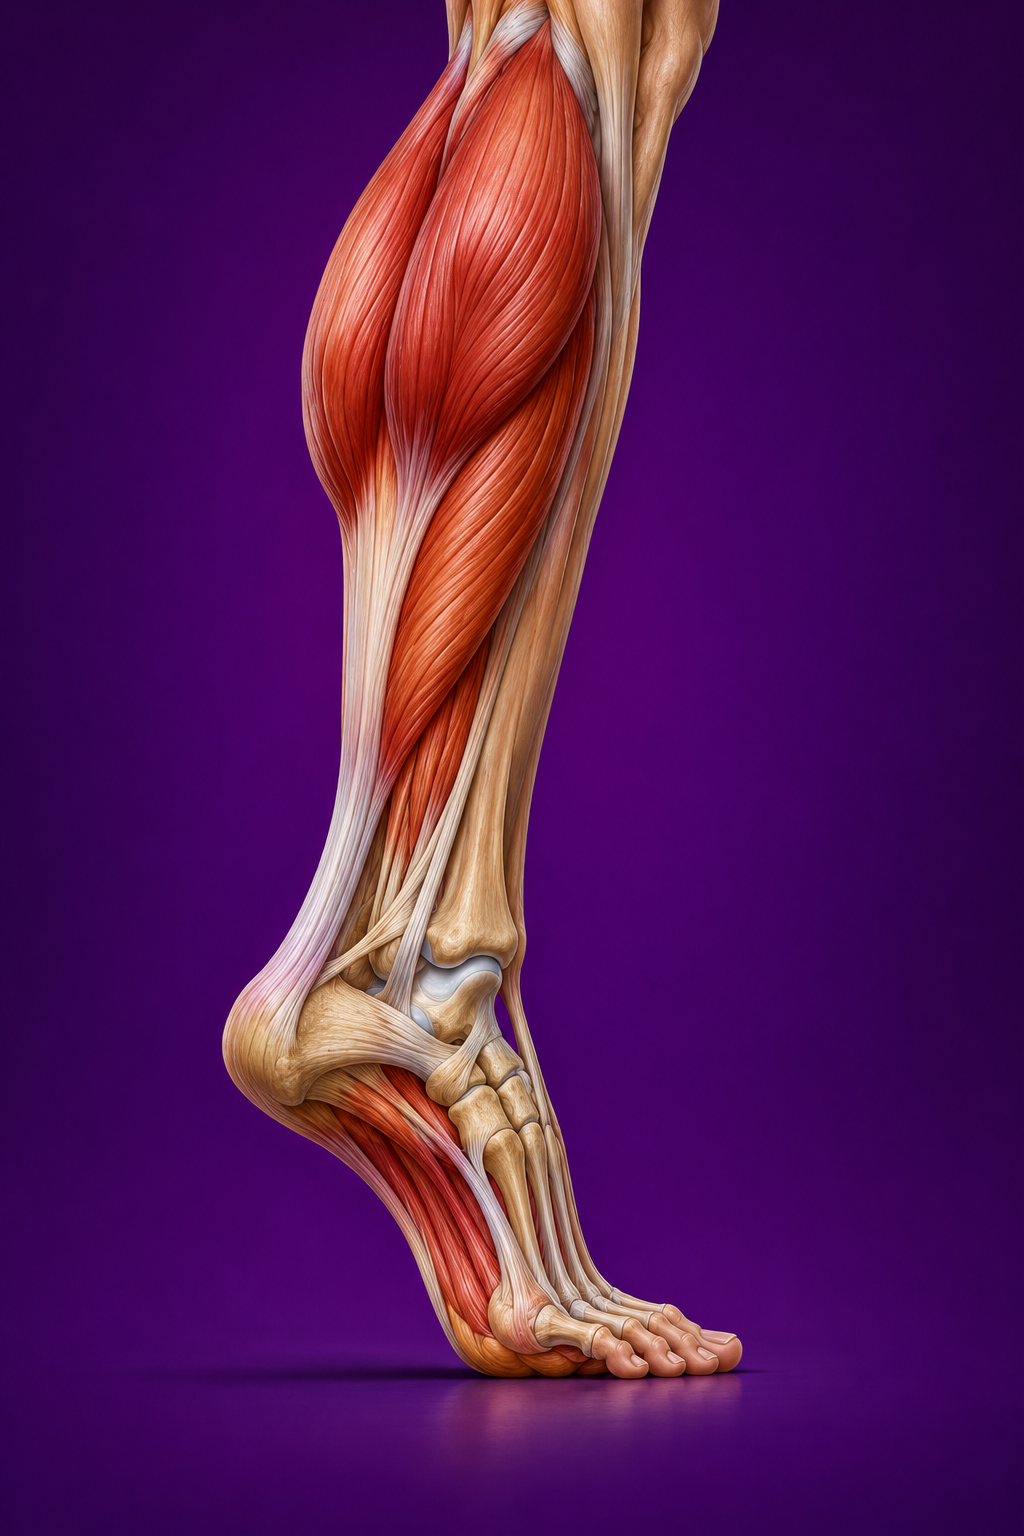
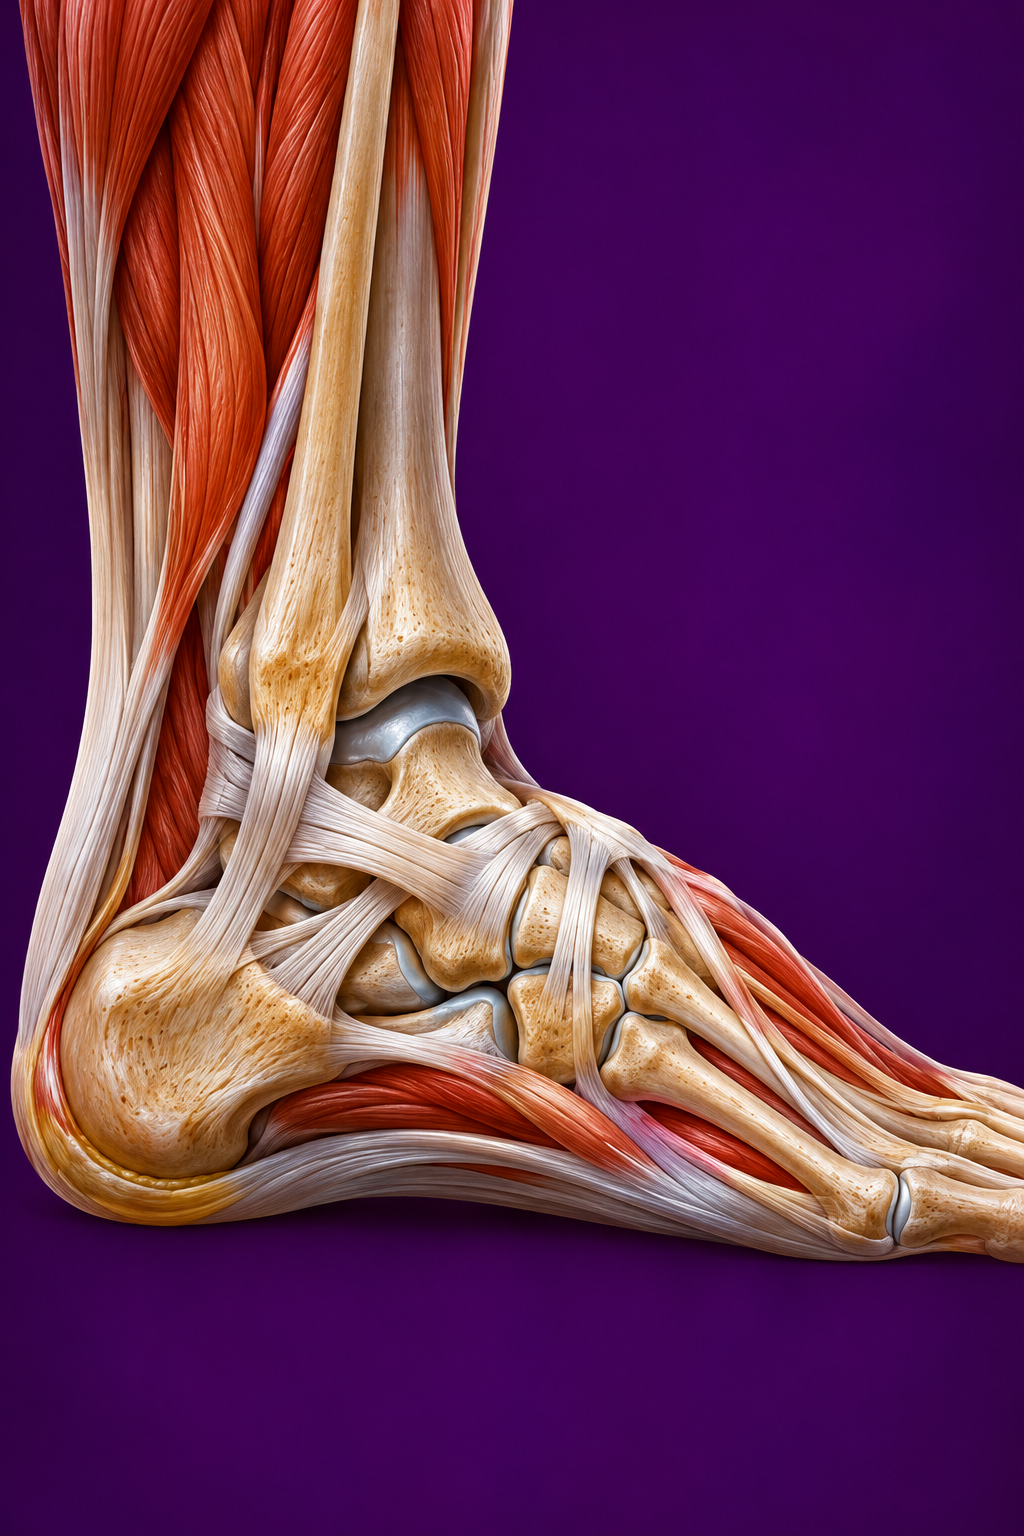
fix(atlas): refresh biomechanics illustrations and visible landmarks

diff --git a/app/atlas-premium/muscular-data.ts b/app/atlas-premium/muscular-data.ts
@@ -1256,104 +1256,104 @@ export const muscularLabs:Record<string,Lab>={
       {
         "file": "cotovelo.webp",
         "label": "Flexão do cotovelo",
-        "description": "Estudo anatômico: flexão do cotovelo.",
+        "description": "Vista lateral ilustrativa do cotovelo flexionado. O modelo não mostra a mão nem uma resistência externa; a análise de alavancas é conceitual.",
         "ready": true,
         "points": [
           {
-            "name": "Bíceps braquial",
-            "description": "Produz torque de flexão; em uma configuração típica de flexão com carga na mão, a força muscular atua entre eixo e resistência.",
-            "x": 31,
-            "y": 44
+            "name": "Região dos flexores do cotovelo",
+            "description": "O bíceps braquial e o braquial contribuem para o torque de flexão. Em uma alavanca de terceira classe típica, a força muscular atua entre o eixo e a resistência distal. Os limites musculares não estão individualizados com segurança.",
+            "x": 46,
+            "y": 20
           },
           {
             "name": "Eixo do cotovelo",
-            "description": "Referência aproximada em torno da qual ocorre flexão e extensão.",
-            "x": 26,
-            "y": 73
+            "description": "Referência aproximada no centro articular para estudar flexão e extensão.",
+            "x": 34,
+            "y": 58
           },
           {
-            "name": "Mão — região distal",
-            "description": "Ponto de aplicação hipotético de uma resistência externa. O torque externo depende da força e da distância perpendicular entre sua linha de ação e o eixo do cotovelo. Não há carga externa representada nesta imagem.",
-            "x": 86,
-            "y": 36
+            "name": "Antebraço — segmento de alavanca",
+            "description": "O antebraço transmite forças em relação ao eixo do cotovelo. A resistência aplicada na mão, que não aparece na imagem, produziria um torque dependente da sua linha de ação.",
+            "x": 81,
+            "y": 63
           }
         ]
       },
       {
         "file": "quadril.webp",
         "label": "Estabilidade pélvica",
-        "description": "Estudo anatômico: estabilidade pélvica.",
+        "description": "Vista anatômica ilustrativa do quadril, com a cabeça femoral e o acetábulo expostos. A estabilidade pélvica no apoio unipodal é estudada conceitualmente.",
         "ready": true,
         "points": [
           {
             "name": "Abdutores do quadril",
             "description": "Geram torque que se opõe à queda da pelve contralateral no apoio unipodal.",
-            "x": 29,
-            "y": 15
+            "x": 25,
+            "y": 30
           },
           {
             "name": "Centro articular do quadril",
             "description": "Referência de rotação para análise do torque no plano frontal.",
-            "x": 35,
-            "y": 23
+            "x": 57,
+            "y": 39
           },
           {
             "name": "Pelve",
             "description": "Segmento cuja orientação é controlada pela ação muscular e pelas forças externas.",
-            "x": 65,
-            "y": 13
+            "x": 48,
+            "y": 16
           }
         ]
       },
       {
         "file": "joelho.webp",
         "label": "Controle do joelho",
-        "description": "Vista anatômica do mecanismo extensor do joelho. A ilustração estática não permite identificar se a ação muscular é concêntrica ou excêntrica.",
+        "description": "Vista lateral ilustrativa do joelho, incluindo a patela e seu mecanismo extensor. Uma imagem estática não determina o tipo de contração muscular.",
         "ready": true,
         "points": [
           {
             "name": "Quadríceps",
             "description": "Pode atuar concentricamente na subida ou excentricamente no controle da descida, dependendo da tarefa.",
-            "x": 48,
-            "y": 18
+            "x": 68,
+            "y": 12
           },
           {
             "name": "Ligamento patelar",
             "description": "Transmite a força do mecanismo extensor da patela à tuberosidade tibial. Os isquiotibiais não estão individualizados nesta vista.",
-            "x": 58,
-            "y": 68
+            "x": 76,
+            "y": 54
           },
           {
             "name": "Patela",
             "description": "Aumenta o braço de momento do mecanismo extensor do joelho.",
-            "x": 60,
-            "y": 50
+            "x": 83,
+            "y": 38
           }
         ]
       },
       {
         "file": "tornozelo.webp",
         "label": "Propulsão plantar",
-        "description": "Estudo anatômico: propulsão plantar.",
+        "description": "Vista lateral ilustrativa do tornozelo e pé. A propulsão é explicada conceitualmente, pois o apoio do antepé e a musculatura proximal da panturrilha não aparecem integralmente.",
         "ready": true,
         "points": [
           {
-            "name": "Tríceps sural",
-            "description": "Gera torque de flexão plantar e contribui para a propulsão na marcha.",
-            "x": 45,
-            "y": 23
+            "name": "Articulação talocrural",
+            "description": "Articulação entre tíbia, fíbula e tálus, que permite principalmente dorsiflexão e flexão plantar.",
+            "x": 40,
+            "y": 47
           },
           {
-            "name": "Cabeças metatarsais",
-            "description": "Região de apoio no antepé durante elevação do calcanhar.",
-            "x": 61,
-            "y": 86
+            "name": "Calcâneo",
+            "description": "Osso do retropé que recebe a inserção do tendão calcâneo. Sua posição em relação ao eixo articular contribui para o braço de momento do tendão.",
+            "x": 18,
+            "y": 70
           },
           {
             "name": "Tendão calcâneo",
-            "description": "Transmite força muscular e pode armazenar e devolver energia elástica durante o movimento.",
-            "x": 34,
-            "y": 51
+            "description": "Transmite a força do tríceps sural ao calcâneo e pode armazenar e devolver energia elástica durante o movimento.",
+            "x": 8,
+            "y": 54
           }
         ]
       }

diff --git a/public/atlas-premium/muscular/biomecanica/README.md b/public/atlas-premium/muscular/biomecanica/README.md
@@ -1,8 +1,8 @@
 # Biomecânica
 
-4 imagens integradas, 12 marcadores aproximados e 6 questões comentadas. Revisão anatômica especializada e validação visual pendentes.
+Quatro novas ilustrações integradas, 12 marcadores aproximados recalibrados e seis questões comentadas preservadas. As versões anteriores estão em versao-anterior/. Os marcadores foram limitados às estruturas visíveis; a análise de alavancas e movimento é conceitual, sem inferir forças de imagens estáticas. Revisão anatômica especializada e validação visual pendentes.
 
-- cotovelo.webp
-- quadril.webp
-- joelho.webp
-- tornozelo.webp
+- cotovelo.webp — Flexão do cotovelo
+- quadril.webp — Estabilidade pélvica
+- joelho.webp — Controle do joelho
+- tornozelo.webp — Propulsão plantar
